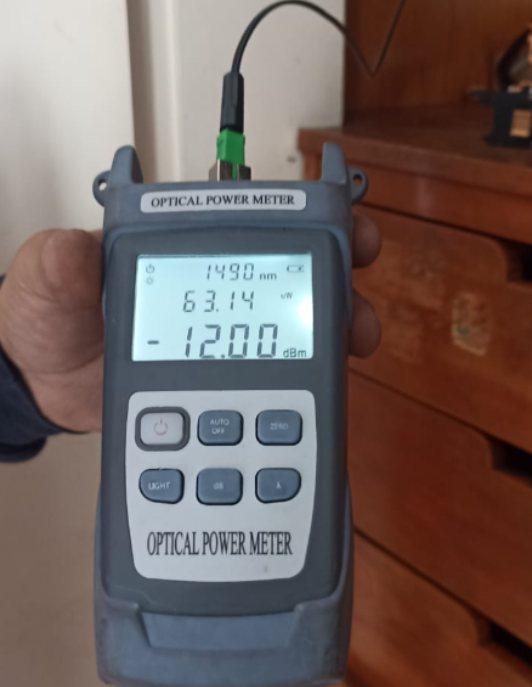
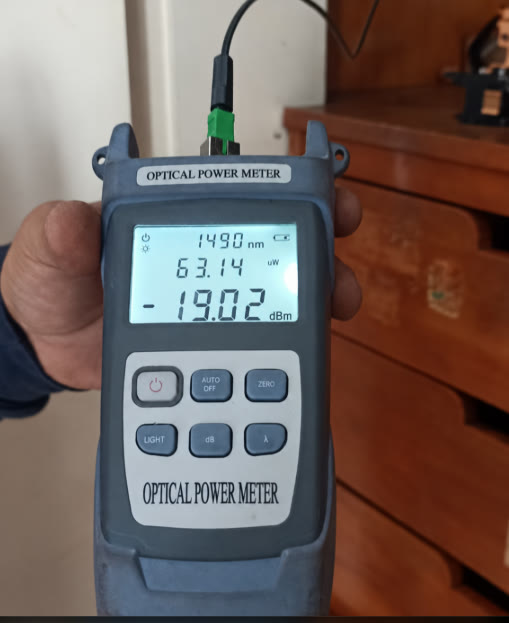
Fotos de terreno en el paso a paso, bloque de limpieza y tapas, primer video Quinta región

diff --git a/index.html b/index.html
@@ -124,6 +124,9 @@
   .cierre p { margin: 0 0 8px; color: var(--muted); font-size: 15.5px; }
   .foto-prueba { display: block; max-width: 100%; max-height: 260px; width: auto; height: auto; margin-top: 14px; border: 1px solid var(--line); }
   .cierre.ancho { grid-column: 1 / -1; }
+  .cierre.clave { display: grid; grid-template-columns: 1fr 1fr; gap: 24px; align-items: center; border-top-color: var(--navy); }
+  .cierre.clave .foto-prueba { margin-top: 0; max-height: 300px; justify-self: center; }
+  @media (max-width: 760px) { .cierre.clave { grid-template-columns: 1fr; gap: 0; } .cierre.clave .foto-prueba { margin-top: 14px; } }
   .cierre h3 { margin: 0 0 10px; font-size: 20px; font-weight: 600; color: var(--navy); }
   .cierre ul { margin: 0; padding-left: 20px; }
   .cierre li { margin-bottom: 6px; }
@@ -203,7 +206,7 @@
           <li>Un conector puede parecer bien armado y estar malo. Pruébalo con el VFL antes de dejarlo instalado.</li>
           <li>Si no hay continuidad o la alineación no es correcta, el conector quedó mal: ármalo de nuevo.</li>
         </ul>
-        <img class="foto-prueba" src="fotos/vfl_oneclick.jpg" alt="Limpiador OneClick y linterna localizadora VFL" loading="lazy">
+        <img class="foto-prueba" src="fotos/vfl.jpg" alt="Linterna localizadora VFL" loading="lazy">
       </div>
       <div class="cierre">
         <h3>3. Mide la potencia óptica</h3>
@@ -233,6 +236,18 @@
           <li>Foto de la potencia desde la ONT.</li>
         </ul>
       </div>
+      <div class="cierre ancho clave">
+        <div>
+          <h3>6. Cuida tus equipos: limpieza y tapas</h3>
+          <p>Esto debe quedarte muy claro: la limpieza es lo primordial.</p>
+          <ul>
+            <li>La limpieza de los sensores y emisores del VFL, los OneClick y el power meter es fundamental para que funcionen bien.</li>
+            <li>Cuida sus tapas: aseguran la vida útil de estas herramientas.</li>
+            <li>Si en la auditoría las tapas no están presentes, es un incumplimiento.</li>
+          </ul>
+        </div>
+        <img class="foto-prueba" src="fotos/equipos.jpg" alt="VFL, OneClick y power meter" loading="lazy">
+      </div>
     </div>
   </section>
 
@@ -251,7 +266,7 @@
 var REGIONES = ["Arica", "Quinta región", "RM"];
 
 var VIDEOS = [
-  { region: "General", titulo: "Preparación y corte de fibra", tecnico: "", fecha: "2026-11-02", id: "", hash: "" },
+  { region: "Quinta región", titulo: "Armado del conector", tecnico: "Tomas Ponce", fecha: "2026-10-30", id: "1241466378", hash: "" },
   { region: "General", titulo: "Armado del conector",          tecnico: "", fecha: "2026-11-02", id: "", hash: "" }
 ];
 
@@ -335,17 +350,17 @@ var FORM_URL = "https://forms.cloud.microsoft/Pages/ResponsePage.aspx?id=zW1hHAx
   var INICIO = [
     { i: "rosca", t: "Inserta la tapa rosca en el cable antes de preparar la fibra.", n: "Nunca la pongas después de pelar, limpiar y cortar: así evitas contaminar o quebrar la fibra." },
     { i: "deschaquetadora", t: "Introduce el cable en la deschaquetadora hasta el número 5. Quedan 4,5 cm de cubierta." },
-    { t: "Deschaqueta el cable." },
+    { i: "real_deschaqueta", t: "Deschaqueta el cable." },
     { i: "pelado", t: "Pela la fibra con la plantilla homologada de 30 mm que viene con los conectores." },
-    { t: "Limpia la fibra con papel de limpieza y alcohol isopropílico.", n: "El papel de limpieza no se reutiliza." },
-    { i: "plantilla", t: "Guía la fibra por la parte superior de la plantilla homologada." },
-    { i: "cortadora", t: "Pon la plantilla en la cortadora homologada y corta. Con la plantilla el corte queda en 30 mm." },
-    { i: "fibra_cortada", t: "Revisa que la fibra quede cortada tal como lo muestra el manual." }
+    { i: "real_limpieza", t: "Limpia la fibra con papel de limpieza y alcohol isopropílico.", n: "El papel de limpieza no se reutiliza." },
+    { i: "real_plantilla", t: "Guía la fibra por la parte superior de la plantilla homologada." },
+    { i: "real_cortadora", t: "Pon la plantilla en la cortadora homologada y corta. Con la plantilla el corte queda en 30 mm." },
+    { i: "real_fibra_cortada", t: "Revisa que la fibra quede cortada tal como lo muestra el manual." }
   ];
   var MEDIO = {
     caiman: [
       { i: "caiman_tapa", t: "Levanta la tapa posterior. El seguro naranjo debe apuntar hacia la entrada del conector.", v: true },
-      { t: "Inserta con cuidado la fibra por el canal central del conector.", v: true },
+      { i: "real_caiman_paso10", t: "Inserta con cuidado la fibra por el canal central del conector.", v: true },
       { i: "caiman_seguro", t: "Con la fibra adentro, tira el seguro en sentido contrario.", v: true }
     ],
     pinza: [
@@ -354,10 +369,10 @@ var FORM_URL = "https://forms.cloud.microsoft/Pages/ResponsePage.aspx?id=zW1hHAx
     ]
   };
   var FINAL = [
-    { t: "Enrosca la rosca en el conector para fijar la fibra." },
+    { i: "real_caiman_fibra", t: "Enrosca la rosca en el conector para fijar la fibra." },
     { i: "cubierta_verde", t: "Inserta la cubierta verde. Su pestaña debe quedar en el lado opuesto al seguro naranjo." },
-    { t: "No retires la tapa protectora hasta conectar el conector a la NAP, FAT o CTO y a la roseta óptica." },
-    { i: "oneclick_tipos", t: "Antes de conectar a la caja terminal óptica, limpia el conector y el puerto con OneClick tradicional o con OneClick tipo Z.", n: "Hazlo aunque el conector venga sellado y embalado.\nLos OneClick deben estar con sus tapas puestas: sin tapa no pasan la auditoría.\nEl VFL también debe estar con su tapa, para evitar suciedad." }
+    { i: "real_tapa_protectora", t: "No retires la tapa protectora hasta conectar el conector a la NAP, FAT o CTO y a la roseta óptica." },
+    { i: "oneclick_calidad", t: "Antes de conectar a la caja terminal óptica, limpia el conector y el puerto con OneClick tradicional o con OneClick tipo Z.", n: "Hazlo aunque el conector venga sellado y embalado.\nLos OneClick deben estar con sus tapas puestas: sin tapa no pasan la auditoría.\nEl VFL también debe estar con su tapa, para evitar suciedad." }
   ];
   var tipoActivo = "caiman", lp = document.getElementById("pasos"), tt = document.getElementById("tipoConector");
   function pintarPasos() {
